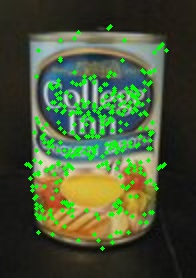
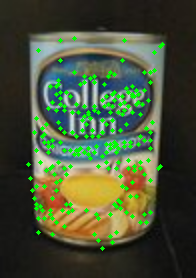
fix bug: local extrema should compare with neighbours in scale as well

diff --git a/cmu_cv/panorama/src/keypointDetect.py b/cmu_cv/panorama/src/keypointDetect.py
@@ -116,8 +116,8 @@ def getLocalExtrema(DoG_pyramid, DoG_levels, principal_curvature,
         if l < DoG_levels[-1]:
             scale.append(DoG_pyramid[1:imH-1, 1:imW-1, l+1])
         scale = np.asarray(scale)
-        scale_max = np.max(scale, axis=0)
-        scale_min = np.min(scale, axis=0)
+        scale_max = maximum_filter(np.max(scale, axis=0), size=3)
+        scale_min = minimum_filter(np.min(scale, axis=0), size=3)
         # find local extremas in both scale and space
         is_extrema = (region >= np.maximum(space_max, scale_max)) | \
                     (region <= np.minimum(space_min, scale_min))
@@ -164,7 +164,7 @@ def DoGdetector(im, sigma0=1, k=np.sqrt(2), levels=[-1,0,1,2,3,4],
 if __name__ == '__main__':
     # test gaussian pyramid
     levels = [-1,0,1,2,3,4]
-    im = cv2.imread('data/model_chickenbroth.jpg')
+    im = cv2.imread('../data/model_chickenbroth.jpg')
     
     # test gaussian pyramid
     im_pyr = createGaussianPyramid(im)
@@ -186,4 +186,4 @@ if __name__ == '__main__':
     tmp_im = cv2.resize(im, (2*im.shape[1], 2*im.shape[0]))
     for point in keypoints:
         cv2.circle(tmp_im, (2*point[0], 2*point[1]), 2, (0, 255, 0), -1)
-    cv2.imwrite('results/keypoints.png', tmp_im)
+    cv2.imwrite('../results/keypoints.png', tmp_im)
